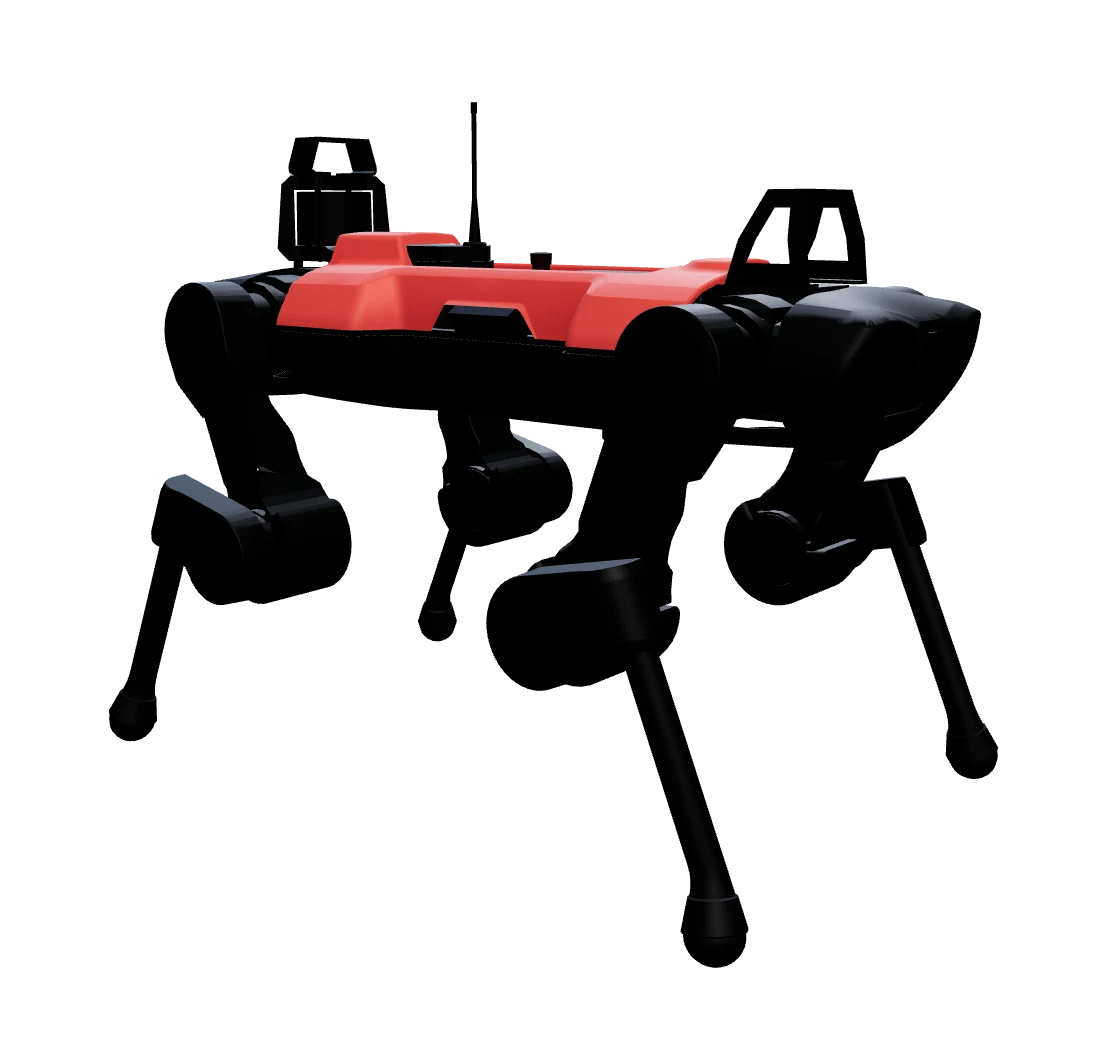
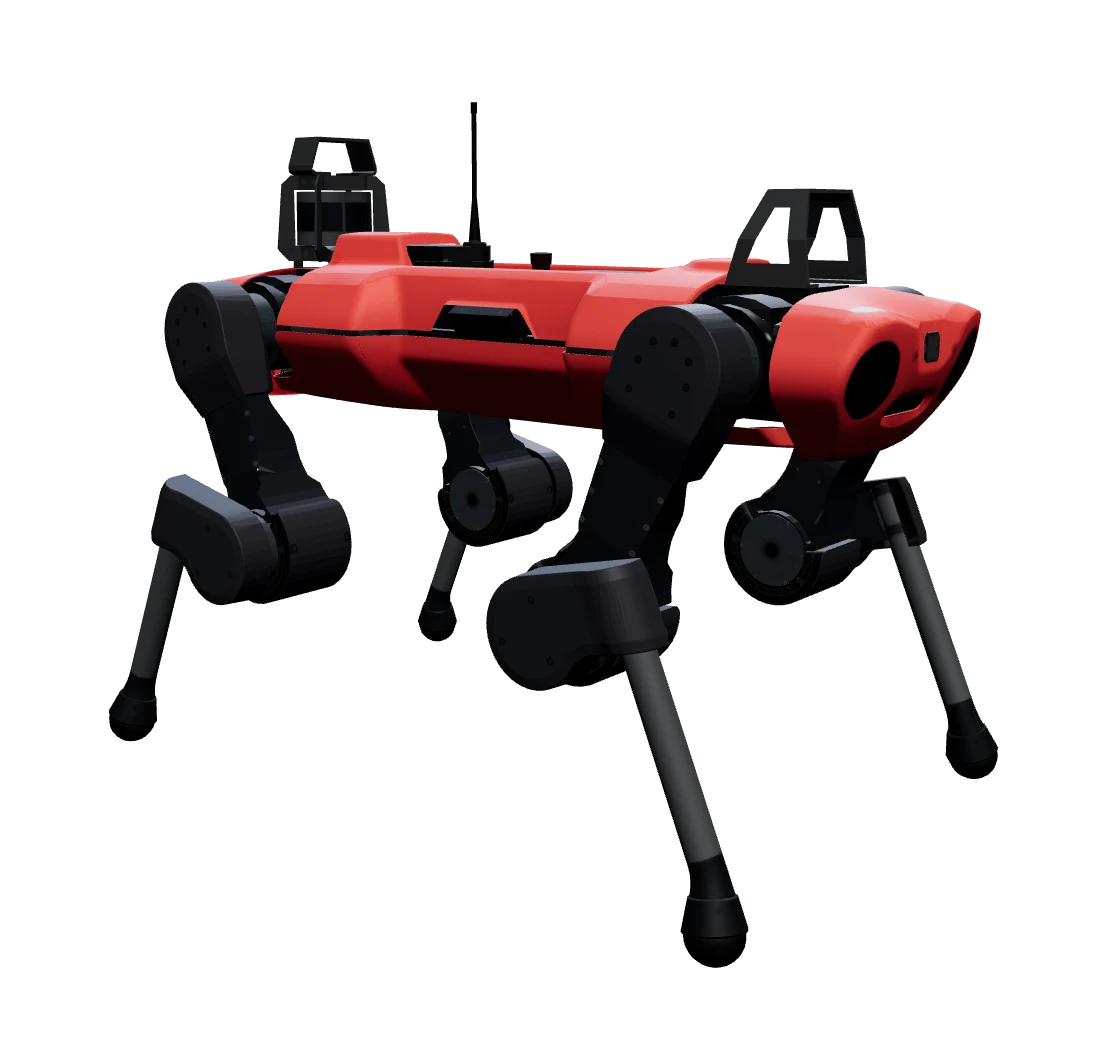
Render visual meshes solid, and wait for their textures
Two things made models render wrong, both visible on the cards.

Translucent visual geometry. urdf-loader turns a `<color rgba="… a">` with
a < 1 into a blended material and switches depth writing off with it, and
_styleMesh passed those through untouched: Booster T1, whose URDF paints
every link at 0.2–0.3 alpha, arrived as a ghost with its own far side
showing through, and against the transparent canvas the thumbnails render
on, the card background showed through as well. Baxter (0.3/0.8 on six
materials), Dex5-1's palm (0.7) and Upkie's chassis (0.8) had it milder.
Visual materials that ask to be blended are now forced solid.

Texture-driven alpha is deliberately exempt — alphaTest, alphaMap, or a
map whose alpha channel does the cutting. There the alpha carves a shape
out of the surface instead of making it see-through. Materials that never
asked to be blended are left alone too, depth writing included: an opaque
material with depth writing off is a decal that has to win against the
surface it sits on, and turning it back on makes it lose the z-fight.

Textures arriving after the screenshot. The load settled on a count of
mesh files, but a Collada file requests its own textures once parsed and
those are nobody's mesh, so a render could be taken before they landed —
intermittently, which is worse than never: ANYmal B rendered three
different ways in three runs of the same code, keeping its "ANYmal
RESEARCH" logo in one of them. The loading manager sees every request
[…]

diff --git a/web/js/viewer.js b/web/js/viewer.js
@@ -124,6 +124,42 @@ function urdfColorsToLinear(xml, scratch = new THREE.Color()) {
   });
 }
 
+/**
+ * Force a visual material to render solid.
+ *
+ * Upstream hands out translucency freely and rarely on purpose: Booster T1's
+ * URDF paints its whole body `rgba="… 0.2"`, Baxter's arms come in at 0.3,
+ * Upkie's chassis and the Dex5-1 palm at 0.8 and 0.7. urdf-loader honours the
+ * alpha and switches depth writing off with it, so the robot arrives as a
+ * ghost with its own far side and its internals showing through — and against
+ * the transparent canvas the thumbnails render on, the card background shows
+ * through too. This is a gallery of shapes, not of glass.
+ *
+ * Two things are deliberately out of reach:
+ *
+ * - Materials that never asked to be blended. An opaque material with depth
+ *   writing switched off is a decal that has to win against the surface it
+ *   is laid on — ANYmal's logo panel, the labels on Atlas and Valkyrie —
+ *   and turning depth writing back on makes it lose the z-fight and vanish.
+ * - Texture-driven alpha (`alphaTest`, `alphaMap`, or a `map` whose alpha
+ *   channel does the cutting). There the alpha carves a shape out of the
+ *   surface instead of making it see-through, so clearing `transparent`
+ *   paints the cut-away pixels back in.
+ *
+ * Collision wireframes and the overlay helpers author their own transparency
+ * and never come through here.
+ */
+function makeOpaque(material) {
+  for (const one of Array.isArray(material) ? material : [material]) {
+    if (!one?.transparent) continue;
+    if (one.alphaTest > 0 || one.alphaMap || one.map) continue;
+    one.transparent = false;
+    one.opacity = 1;
+    one.depthWrite = true;
+    one.needsUpdate = true;
+  }
+}
+
 /** True only if the object and every ancestor up to the root is visible. */
 function effectivelyVisible(object, root) {
   for (let node = object; node && node !== root.parent; node = node.parent) {
@@ -420,7 +456,10 @@ export class RobotViewer {
   async load(entry, onProgress) {
     this.clear();
     const base = entry.assets.base;
-    const loader = new URDFLoader(new THREE.LoadingManager());
+    // Every request either loader makes goes through this manager, which is
+    // what lets `outstanding` below see the loads the mesh counter cannot.
+    const manager = new THREE.LoadingManager();
+    const loader = new URDFLoader(manager);
     loader.parseCollision = true;
     // urdf-loader joins with '/', so package roots must not end in one — a
     // package mapped to the repository root would otherwise produce '//meshes'.
@@ -449,8 +488,26 @@ export class RobotViewer {
     let parsed = false;
     let markSettled;
     const settled = new Promise((resolve) => (markSettled = resolve));
+
+    // The mesh counter is not the whole story: a Collada file asks for textures
+    // of its own once it is parsed, and those loads are nobody's mesh. Waiting
+    // on the counter alone screenshots ANYmal before its logo decal arrives —
+    // intermittently, which is worse than never. The loading manager sees both
+    // kinds of request, and it only starts a texture while the .dae that wants
+    // it is still open, so `outstanding` never dips to zero in between.
+    let outstanding = 0;
     const check = () => {
-      if (parsed && done >= total) markSettled();
+      if (parsed && done >= total && outstanding === 0) markSettled();
+    };
+    const { itemStart, itemEnd } = manager;
+    manager.itemStart = (url) => {
+      outstanding += 1;
+      itemStart.call(manager, url);
+    };
+    manager.itemEnd = (url) => {
+      itemEnd.call(manager, url);
+      outstanding -= 1;
+      check();
     };
     const tick = () => onProgress && onProgress(done, total);
 
@@ -578,6 +635,7 @@ export class RobotViewer {
       mesh.material = upgraded;
       this._disposables.push(upgraded);
     }
+    makeOpaque(mesh.material);
   }
 
   /**
